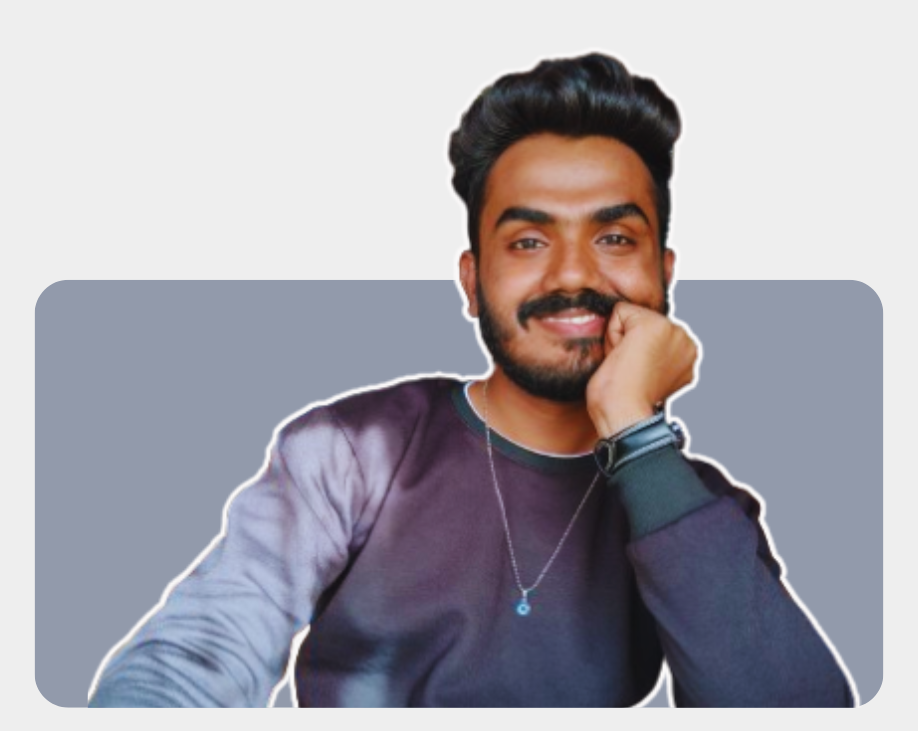
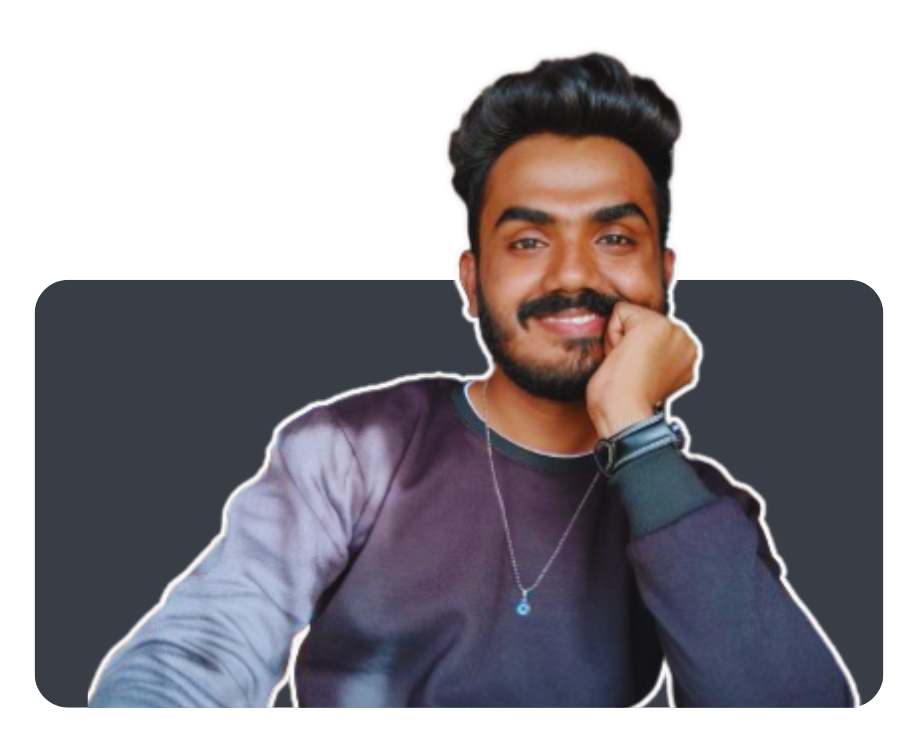
linked project and whole css bg

diff --git a/src/App.css b/src/App.css
@@ -130,8 +130,8 @@ p {
   justify-content: end;
   align-items: center;
   padding: 15px 85.333px;
-  background: whitesmoke;
-  box-shadow: 0px 5.333px 80px 0 rgba(0, 0, 0, 0.1);
+  background: white;
+  /* box-shadow: 0px 5.333px 80px 0 rgba(0, 0, 0, 0.1); */
   position: fixed;
   top: 0;
   left: 0;
@@ -187,7 +187,7 @@ p {
   align-items: center;
   justify-content: space-between;
   gap: 32px;
-  background-color: var(--bg-shade);
+  background-color: white;
 }
 .hero--section--content--box {
   display: flex;
@@ -231,7 +231,7 @@ p {
 /*---------------------------- About Section Styles------------------------------*/
 .about--section {
   padding: 90px 80px;
-  background-color: #f7f7f7;
+  background-color: white;
 }
 .about--section--box {
   max-width: 75rem;
@@ -321,7 +321,7 @@ p {
   flex-direction: column;
   align-items: flex-start;
   gap: 80px;
-  background-color: #eeeeee;
+  background-color: white;
 }
 .portfolio--container-box {
   display: flex;
@@ -440,7 +440,7 @@ p {
   align-items: center;
   text-align: center;
   gap: 64px;
-  background-color: #f7f7f7;
+  background-color: white;
 }
 .contact--section--heading--box {
   margin-bottom: 3rem;

diff --git a/src/Pages/MyPortfolio.jsx b/src/Pages/MyPortfolio.jsx
@@ -30,7 +30,12 @@ export default function MyPortfolio() {
               users can effortlessly navigate through a vast database of
               entertainment content.
             </p>
-            <a className="btn_to_projectDetails">Case Study</a>
+            <a
+              className="btn_to_projectDetails"
+              href="https://bingeflixx.vercel.app/"
+            >
+              View Live Project!
+            </a>
           </div>
         </div>
       </div>
